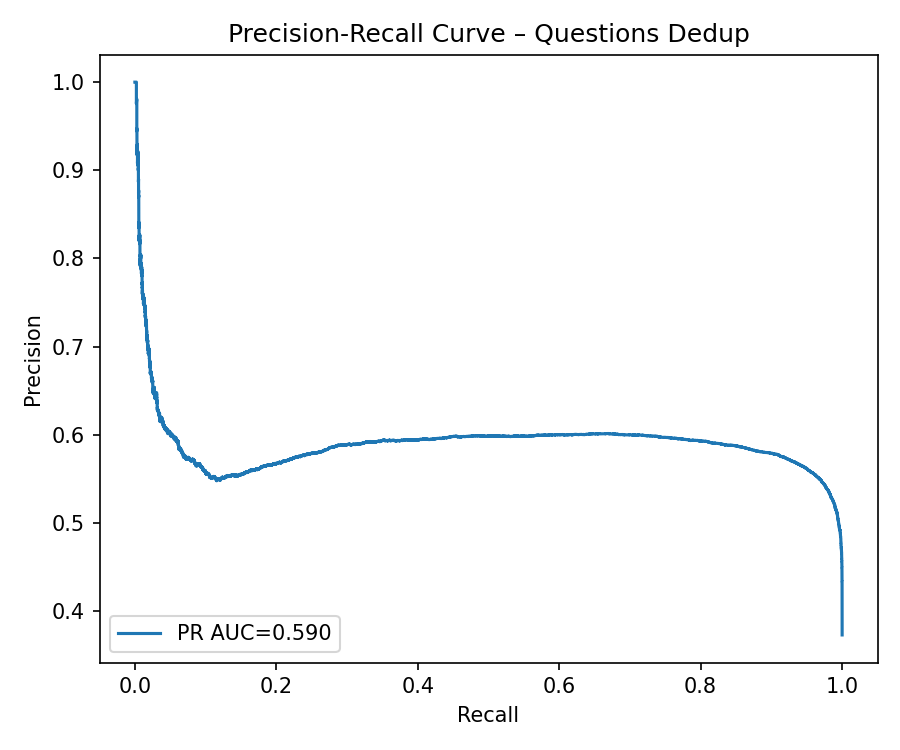
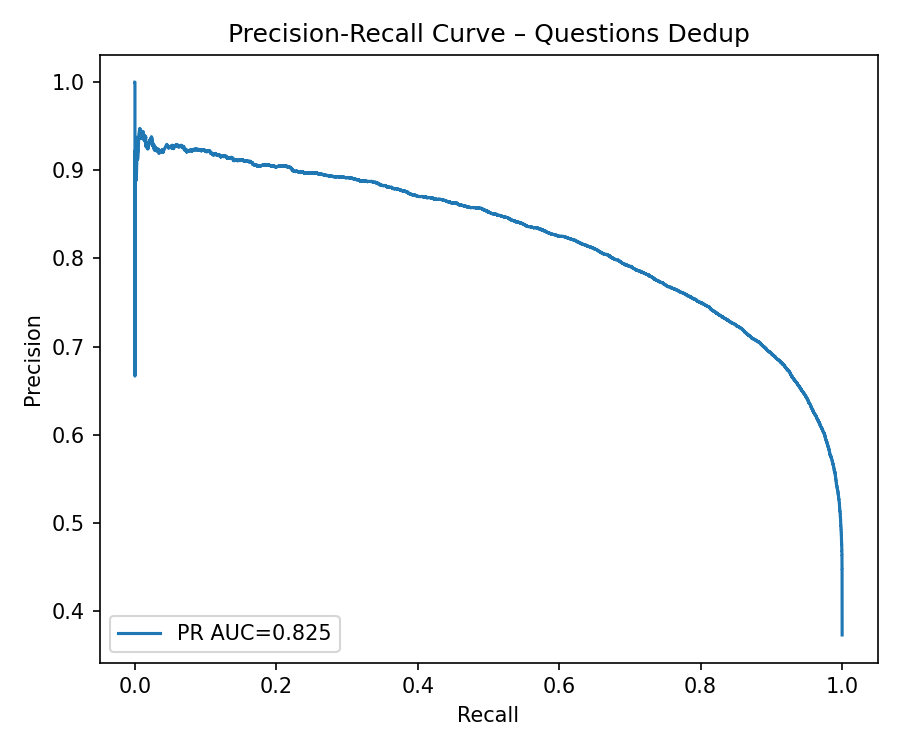
Update README.md

diff --git a/scripts/eval_questions.py b/scripts/eval_questions.py
@@ -18,6 +18,10 @@ import sys
 from pathlib import Path
 from typing import Dict, List, Tuple
 import numpy as np
+import joblib
+import psutil
+import time
+import json
 
 # Ensure repository root is on sys.path when executed as a script *before* local imports
 ROOT = Path(__file__).resolve().parent.parent
@@ -87,9 +91,18 @@ def eval_questions(csv_path: Path, ngram: int, out_dir: Path) -> None:
     combined_q = pd.concat([df["question1"], df["question2"]], ignore_index=True)
     shingles_map, emb_map = build_caches(combined_q)
 
+    # Load trained LR blend model if available
+    lr_path = Path("results/lr_model.joblib")
+    clf = joblib.load(lr_path) if lr_path.exists() else None
+
+    proc = psutil.Process()
+    mem_start = proc.memory_info().rss / 1e6
+    t_eval_start = time.time()
+
     lexical_scores: List[float] = []
     sem_scores: List[float] = []
     blend_scores: List[float] = []
+    errors: List[dict] = []
 
     for idx, row in tqdm(df.iterrows(), total=len(df), desc="Scoring pairs"):
         s1 = shingles_map[idx]
@@ -100,11 +113,33 @@ def eval_questions(csv_path: Path, ngram: int, out_dir: Path) -> None:
         emb2 = emb_map[idx + len(df)]
         sem = cosine_similarity(emb1, emb2)
 
-        blend = 0.6 * lex + 0.4 * sem
+        if clf is not None:
+            feat_vec = np.array([
+                lex,
+                sem,
+                len(s1) / len(s2) if s2 else 0.0,
+                len(s2) / len(s1) if s1 else 0.0,
+                len(s1 & s2) / len(s1 | s2) if s1 and s2 else 0.0,
+                abs(len(s1) - len(s2)),
+                abs(len(s1) - len(s2)) / len(s1 | s2) if s1 and s2 else 0.0,
+            ], dtype="float32").reshape(1, -1)
+            blend = float(clf.predict_proba(feat_vec)[0, 1])
+        else:
+            blend = 0.6 * lex + 0.4 * sem
 
         lexical_scores.append(lex)
         sem_scores.append(sem)
         blend_scores.append(blend)
+
+        # collect error info for later
+        errors.append({
+            "q1": df["question1"][idx],
+            "q2": df["question2"][idx],
+            "label": int(row["is_duplicate"]),
+            "lex": round(lex,4),
+            "sem": round(sem,4),
+            "blend": round(blend,4)
+        })
 
     y_true = df["is_duplicate"].astype(int).values
     y_score = np.array(blend_scores)
@@ -148,6 +183,18 @@ def eval_questions(csv_path: Path, ngram: int, out_dir: Path) -> None:
     plt.legend(loc="lower left")
     plt.tight_layout()
     plt.savefig(out_dir / "pr_curve.png", dpi=150)
+
+    # Dump FP/FN examples (top 50 by wrongness)
+    wrong = sorted(errors, key=lambda d: abs(d["label"]- (d["blend"]>=best_thresh)), reverse=True)
+    with (out_dir/"errors.jsonl").open("w", encoding="utf-8") as f:
+        for rec in wrong[:50]:
+            json.dump(rec, f); f.write("\n")
+
+    # throughput & mem
+    eval_seconds = time.time() - t_eval_start
+    mem_end = proc.memory_info().rss / 1e6
+    speed_path = out_dir/"speed_eval.txt"
+    speed_path.write_text(f"pairs\tseconds\tMB_start\tMB_end\n{len(df)}\t{eval_seconds:.2f}\t{mem_start:.1f}\t{mem_end:.1f}\n")
 
 
 # -----------------------------------------------------------

diff --git a/README.md b/README.md
@@ -44,5 +44,42 @@ python scripts/eval_questions.py --csv data/questions.csv --out results/
 
 This generates ROC / PR curves and writes `questions_metrics.txt` summarising ROC-AUC, PR-AUC and the best F1 threshold.
 
+### Training the blend classifier
+
+We train a lightweight logistic-regression model that blends lexical & semantic
+signals plus a handful of length features:
+
+```bash
+# optional: change --sample to use a smaller subset while iterating
+python scripts/train_lr.py --csv data/questions.csv \
+       --sample 100000 \
+       --out results/lr_model.joblib
+```
+
+Features per pair:
+
+1. Lexical Jaccard (char-5-gram ∪ skip-gram).
+2. Semantic cosine (SBERT `all-mpnet-base-v2`).
+3. Length ratio (chars) & token-length ratio.
+4. Token overlap ratio.
+5. Absolute length / token-length deltas.
+
+The script reports ROC-AUC / PR-AUC on a hold-out split and saves the model.
+
+During evaluation `eval_questions.py` automatically loads
+`results/lr_model.joblib` and applies the classifier; otherwise it falls back to
+the fixed 0.6 × lexical + 0.4 × semantic blend.
+
+### Error analysis & speed logs
+
+`eval_questions.py` additionally produces:
+
+* `results/errors.jsonl` – top-50 false-positive / false-negative pairs with
+  feature values.
+* `results/speed_eval.txt` – pair-count, elapsed seconds, RSS at start/end.
+
+These artefacts make it trivial to iterate on new features or alternative
+models.
+
 ## License
 Apache-2.0 
